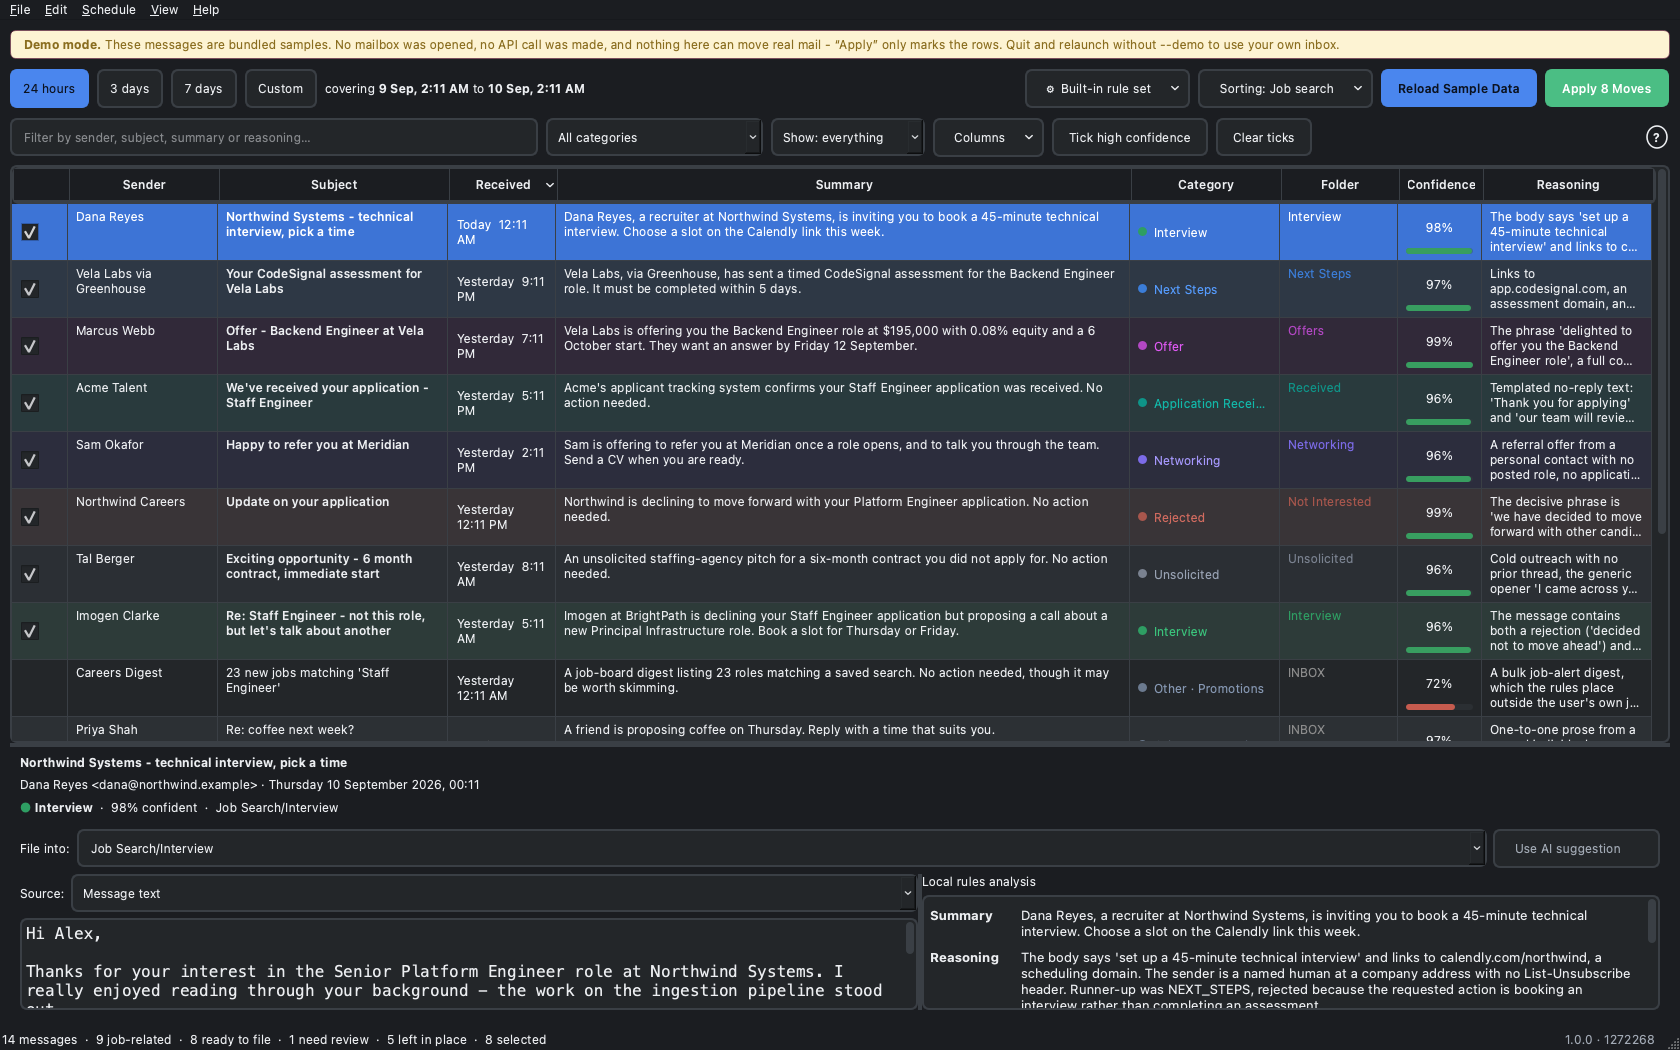
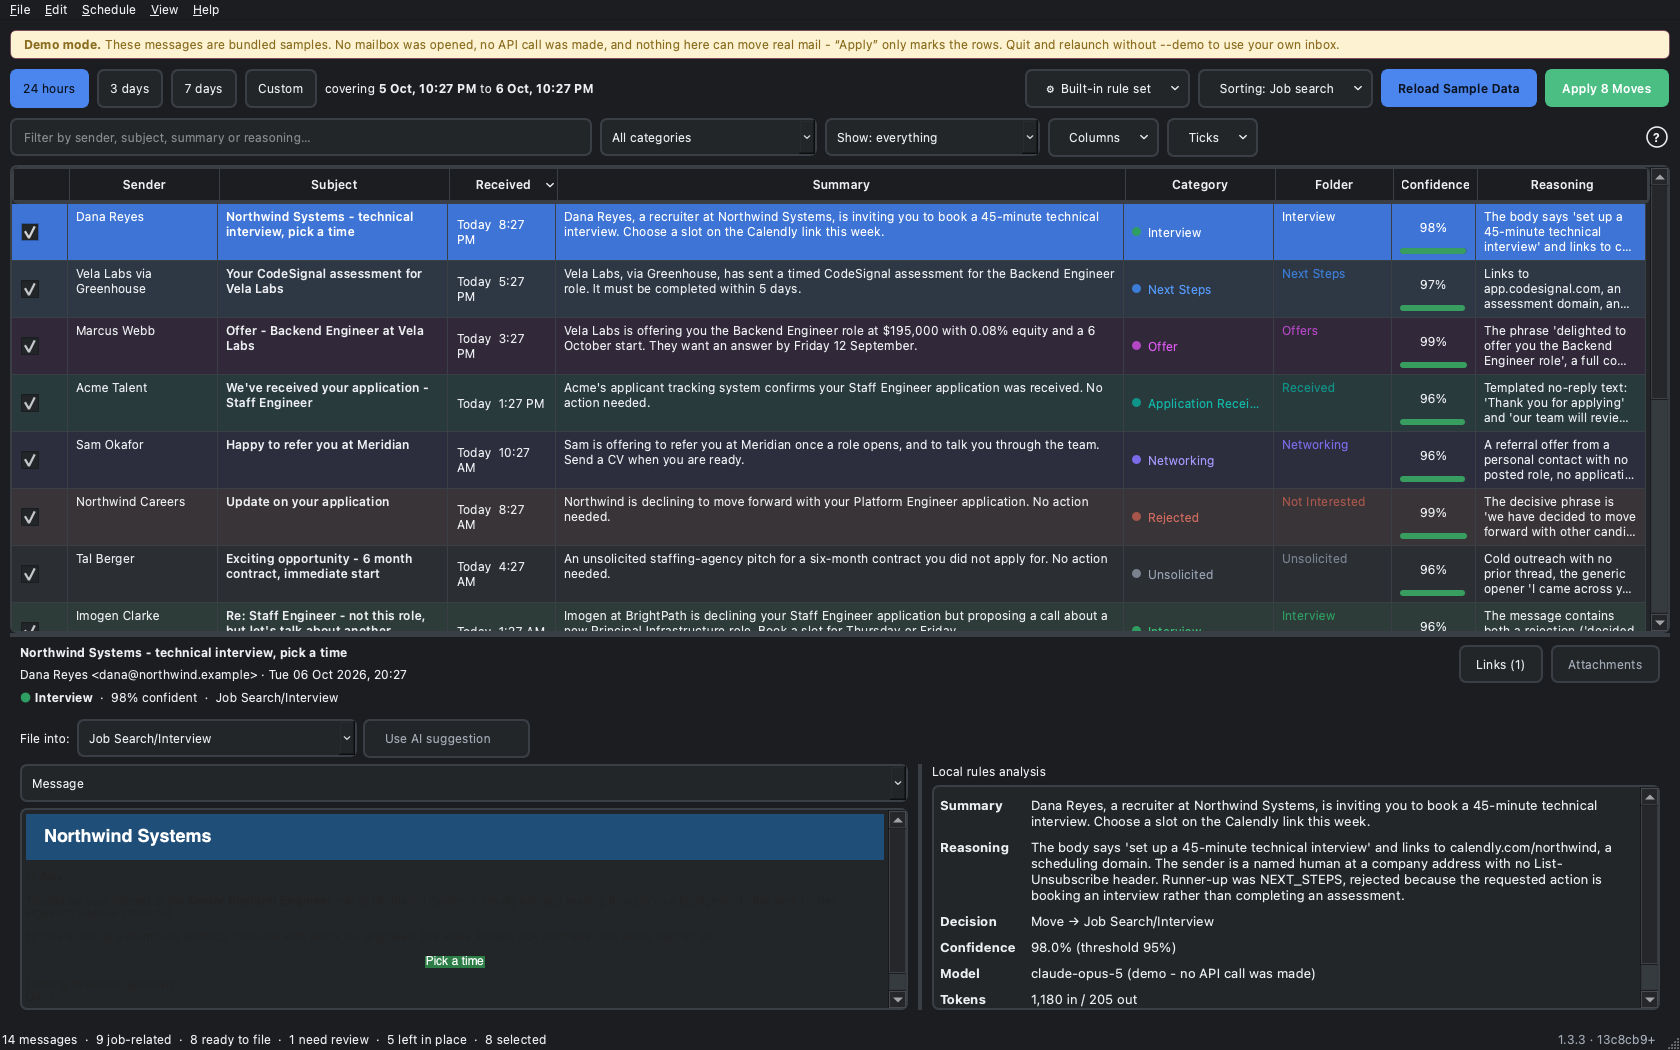
Docs: pictures in messages, a current screenshot, and the test count

diff --git a/docs/HANDBOOK.md b/docs/HANDBOOK.md
@@ -199,6 +199,11 @@ default. Deletion on IMAP is permanent.
 
 ## Attachments and links
 
+**Message** shows a message as it was sent, pictures included: they are
+fetched from wherever the sender keeps them, which tells the sender it was
+opened, so **Settings** can turn them off, and each is then shown as [image].
+**Plain text** is the text alone.
+
 **Attachments** opens a viewer for images, audio, PDF and text. Only the part
 you open is downloaded, and nothing is ever run:
 
@@ -269,7 +274,7 @@ See [SECURITY.md](../SECURITY.md) for reporting a problem.
 ./dev dry      # scan for real, with moves disabled
 ./dev fake     # the pipeline in the terminal, offline
 ./dev scan     # the pipeline on real mail, read-only
-./dev test     # 4,720 tests (with the evaluation sets present)
+./dev test     # 4,733 tests (with the evaluation sets present)
 ./dev eval     # sorter accuracy, on a labelled set of your own
 ```
 

diff --git a/SECURITY.md b/SECURITY.md
@@ -22,6 +22,11 @@ With the default sorter, no message text leaves your Mac. With a model
 backend, the subject, sender and a trimmed body go to that provider.
 Attachments are never uploaded.
 
+The pictures in a message are fetched from wherever the sender keeps them
+when the preview shows it, which tells the sender it was opened. Settings
+turns that off; the one-pixel images mail uses only for that are never
+fetched either way, and nothing else a message refers to is.
+
 Once a day, unless turned off in Settings, the app asks GitHub for the latest
 version number. Nothing else is sent.
 

diff --git a/docs/HANDOFF.md b/docs/HANDOFF.md
@@ -160,7 +160,7 @@ describes the app itself.
 ## Measuring
 
 ```bash
-./dev test                     # 4,720 tests
+./dev test                     # 4,733 tests
 ./dev playtest ~/Music/*.mp3   # real records through the real pane
 ./dev eval                     # the sorter on a labelled set
 python tools/corpus.py         # the SpamAssassin corpus

diff --git a/README.md b/README.md
@@ -95,7 +95,7 @@ turns that off. See [SECURITY.md](SECURITY.md).
 
 ```bash
 ./dev demo     # the app with sample mail, no setup
-./dev test     # 4,720 tests, about five minutes on four workers
+./dev test     # 4,733 tests, about five minutes on four workers
 ./dev eval     # sorter accuracy, on a labelled set of your own
 ```
 
